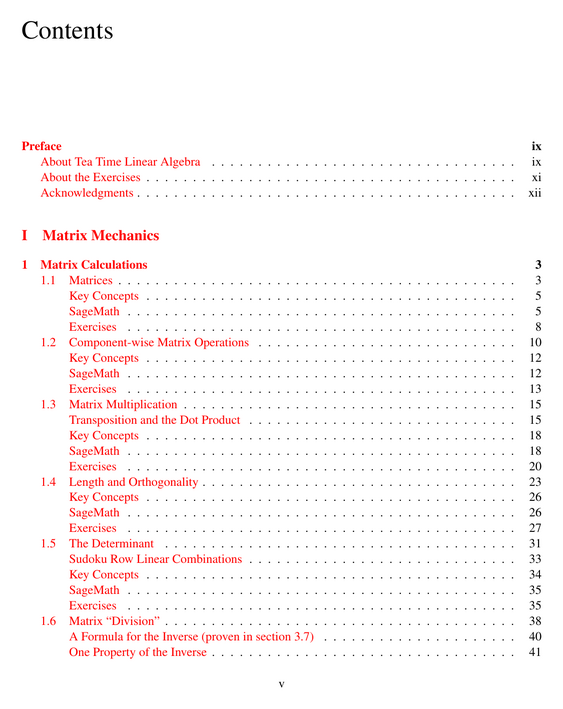
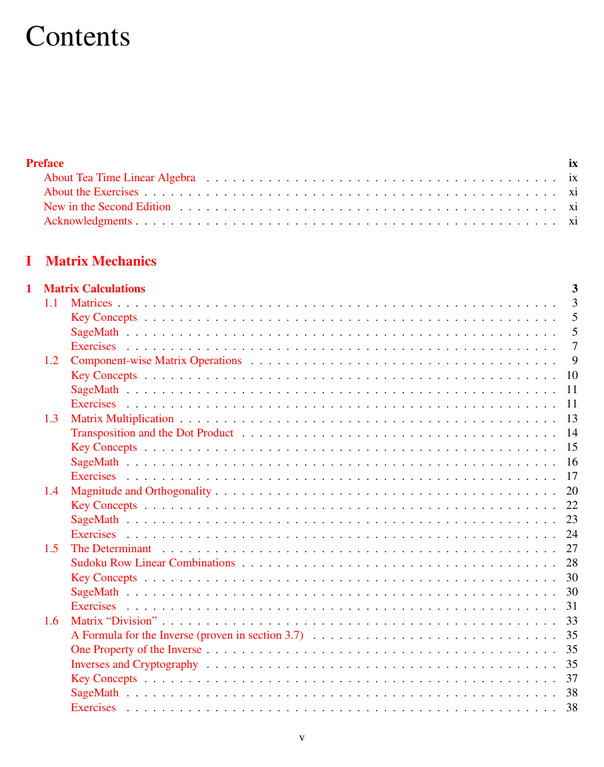
Second Edition accommodation

diff --git a/changelog.html b/changelog.html
@@ -4,11 +4,11 @@
   <head>
     <meta charset='utf-8' />
     <meta http-equiv="X-UA-Compatible" content="chrome=1" />
-    <meta name="description" content="Tea Time Linear Algebra Errata" />
+    <meta name="description" content="Tea Time Linear Algebra Changelog and Revised PDF" />
 
     <link rel="stylesheet" type="text/css" media="screen" href="stylesheets/stylesheet.css">
 
-    <title>Tea Time Linear Algebra Errata</title>
+    <title>Tea Time Linear Algebra Changelog and Revised PDF</title>
   </head>
   
   <script>
@@ -24,16 +24,21 @@
     <div id="header_wrap" class="outer">
         <header class="inner">
           <a id="go_home" href="index.html">Home</a>
-          <a id="download_book" href="https://github.com/lqbrin/tea-time-linear/raw/main/TeaTimeLinearAlgebra-edition01.pdf">Download PDF</a>
-          <h2 id="book_title"><span style="font-size:60%">2021: First Edition</span><br>Tea Time Linear Algebra <span style="font-size:60%">Explorations in Mathematics</span></h2>
+          <a id="download_book" href="https://github.com/lqbrin/tea-time-linear/raw/main/TeaTimeLinearAlgebra-edition02.pdf">Download PDF</a>
+          <h2 id="book_title"><span style="font-size:60%">2022: Second Edition</span><br>Tea Time Linear Algebra <span style="font-size:60%">Explorations in Mathematics</span></h2>
         </header>
     </div>
 
     <!-- MAIN CONTENT -->
     <div id="main_content_wrap" class="outer">
       <section id="main_content" class="inner">
-		<h4>Changelog (last updated 2022 Jun 16)</h4>
-			These changes do not appear <strong>in the print version or the main download</strong> (the pink "Download PDF" link at the top of this page).
+		<h4>Changelog `1^(st)` edition to `2^(nd)` (last updated 2022 Jul 14)</h4>
+			<h4>Introduced in the second edition</h4>
+			<ul>
+				<li>Default typesize decreased from 12pt to 10pt</li>
+				<li>Free, complete course management at <a href="https://www.myopenmath.com/" target="_blank">MyOpenMath</a> including randomly generated versions of most exercises now available. Course shell fully aligned to textbook available from the course browser. Request an instructor account to access.</li>
+			</ul>
+			<h5>Changes <span style="font-size:90%;">(do not appear in the `1^(st)` edition print version or previous version download)</span></h5>
 			<h5>Chapter 1</h5>
 			<ul>
 				<li><strong>P 10:</strong> "matrix" changed to "block"</li>
@@ -119,6 +124,36 @@
 				<li><strong>P 250</strong> corrected definition of orthogonal projection in lise of key concepts</li>
 				<li><strong>P 252</strong> replaced exercise 3h</li>
 				<li><strong>P 253</strong> minor revision to exercise 7</li>
+			</ul>
+			<h5>Chapter 7</h5>
+			<ul>
+				<li><strong>P 257</strong> minor rewording</li>
+				<li><strong>P 258</strong> minor rewording; changed "theorem" to "corollary"</li>
+				<li><strong>P 260</strong> added explanation of linear variation of parameters</li>
+				<li><strong>P 263</strong> clarified crumpet 29 bullet point 1</li>
+				<li><strong>P 264</strong> clarifications to exercise 1</li>
+				<li><strong>P 265-266</strong> swapped method requested in exercises 3 and 4 and fixed solutions and answers</li>
+				<li><strong>P 276</strong> changed "sector" to "industry" in exercise 9 and clarified</li>
+				<li><strong>P 277</strong> changed numbers in exercise 11</li>
+				<li><strong>P 281</strong> removed special treatment of case `m=0`</li>
+				<li><strong>P 285-287</strong> corrected formula for Fourier coefficients</li>
+				<li><strong>P 288</strong> added two parts to exercise 7; added "the first" to exercises 8-10; replaced `V_([0,L])` notation in Answers</li>
+				<li><strong>P 289</strong> replaced `V_([0,L])` notation</li>
+				<li><strong>P 290</strong> simplified explanation of brownie experiment</li>
+				<li><strong>P 292</strong> clarified the role of Newton's law of cooling</li>
+				<li><strong>P 294</strong> vocabulary correction</li>
+				<li><strong>P 295</strong> added the term "long run behavior"</li>
+				<li><strong>P 298</strong> clarified analogy between geometric series and discrete dynamical systems</li>
+				<li><strong>P 299</strong> added some explanation of asymptotic periodicity</li>
+				<li><strong>P 300</strong> added several parts to exercise 1 and modified existing parts</li>
+				<li><strong>P 301</strong> fixed equations in exercises 10 and 11</li>
+				<li><strong>P 302</strong> clarified linearization</li>
+				<li><strong>P 310</strong> changed 50 to 60 in footnote</li>
+				<li><strong>P 312</strong> extended the hint in exercise 12</li>
+			</ul>
+			<h5>Answers and Solutions</h5>
+			<ul>
+				<li><strong>P 315-413</strong> corrected, supplemented, and synchronized many answers and solutions</li>
 			</ul>
 		<h4>PDF with revisions</h4>
 		A PDF with these revisions and numerous bug fixes is available for <a href="https://github.com/lqbrin/tea-time-linear/raw/main/TeaTimeLinearAlgebra.pdf">download here</a>. This version will always be the most up-to-date revision and will change regularly. You might consider this a preview of the next edition. Suggestions welcome at <a href="mailto:brinl1@southernct.edu"><kbd>brinl1@southernct.edu</kbd></a>!

diff --git a/index.html b/index.html
@@ -16,8 +16,8 @@
     <!-- HEADER -->
     <div id="header_wrap" class="outer">
         <header class="inner">
-          <a id="download_book" href="https://github.com/lqbrin/tea-time-linear/raw/main/TeaTimeLinearAlgebra-edition01.pdf">Download PDF</a>
-          <h2 id="book_title"><span style="font-size:60%">2021: First Edition</span><br>Tea Time Linear Algebra <span style="font-size:60%">Explorations in Mathematics</span></h2>
+          <a id="download_book" href="https://github.com/lqbrin/tea-time-linear/raw/main/TeaTimeLinearAlgebra-edition02.pdf">Download PDF</a>
+          <h2 id="book_title"><span style="font-size:60%">2022: Second Edition</span><br>Tea Time Linear Algebra <span style="font-size:60%">Explorations in Mathematics</span></h2>
         </header>
     </div>
 
@@ -28,11 +28,11 @@
 	      <a href="contents.html" class="pagenav">Table of Contents</a>
 	      <a href="ancillaries.html" class="pagenav">Ancillaries</a>
 	      <a href="printCopy.html" class="pagenav">Printed Copy</a>
-	      <a href="errata.html" class="pagenav">Errata / revised PDF</a>
+	      <a href="changelog.html" class="pagenav">Changelog / revised PDF</a>
 	      <a href="more.html" class="pagenav">More Info</a>
 	    </p>
 	    <div style="float:right; width:320px;">
-		  <p style="text-align:right;"><img alt="Title Page" src="images/titlepage-1.png" width=300 height=400 /><br/>
+		  <p style="text-align:right;"><img alt="Title Page" src="images/titlepage-2.png" width=300 height=400 /><br/>
 		  Also by L.Q. Brin: <a href="https://lqbrin.github.io/tea-time-numerical/"><span style="padding: 5px 3px 3px 3px; color: #fff; background-color: #0090ff;">Tea Time Numerical Analysis</span></a></p>
 	    </div>
         <h4>Greetings! And thanks for visiting.</h4>
@@ -42,13 +42,14 @@
         <p><b>See reviews</b>:</p>
         -->
         <p style="text-align:right;"><em>[The] writing is excellent ... sharp, to the point, and witty.&nbsp;&nbsp;&nbsp;&nbsp;</em><br/>- Dick Pelosi&nbsp;&nbsp;&nbsp;&nbsp;</p>
-        <p>Take a ride through the landscape of linear algebra from basic mechanics through vector spaces.</p>
+        <p>Take a ride through the landscape of linear algebra from basic mechanics through inner product spaces.</p>
         <ul>
-	      <li>432 pages</li>
+	      <li>386 pages</li>
 	      <li>Over 1000 exercises with over 200 detailed solutions and hundreds more answers</li>
 	      <li>Over 250 illustrations</li>
 	      <li>Nearly 150 live SageMathCell links</li>
 	      <li>Open source</li>
+	      <li><span style="font-weight:bold;">Now with online homework and course management at <a href="https://www.myopenmath.com/" target="_blank">MyOpenMath!</a></span></li>
         </ul>
 		<p>Presented in a conversational style with plenty of motivation, illustrations, applications, and theory, this text should be a comfortable read for most beginning mathematicians. Readers and instructors alike will appreciate the numerous detailed exercise solutions accompanying each section.</p>
 		<p>Examine the distribution of bicycles in the Capital Bikeshare system, model an un-preheated oven baking brownies, reproduce sounds via Fourier series, explore rep-tiles like the one decorating this cover, and more. Read proofs of the rank and nullity theorem, the determinant expansion formula, existence and uniqueness of solutions of linear systems and others.</p>

diff --git a/printCopy.html b/printCopy.html
@@ -17,8 +17,8 @@
     <div id="header_wrap" class="outer">
         <header class="inner">
           <a id="go_home" href="index.html">Home</a>
-          <a id="download_book" href="https://github.com/lqbrin/tea-time-linear/raw/main/TeaTimeLinearAlgebra-edition01.pdf">Download PDF</a>
-          <h2 id="book_title"><span style="font-size:60%">2021: First Edition</span><br>Tea Time Linear Algebra <span style="font-size:60%">Explorations in Mathematics</span></h2>
+          <a id="download_book" href="https://github.com/lqbrin/tea-time-linear/raw/main/TeaTimeLinearAlgebra-edition02.pdf">Download PDF</a>
+          <h2 id="book_title"><span style="font-size:60%">2022: Second Edition</span><br>Tea Time Linear Algebra <span style="font-size:60%">Explorations in Mathematics</span></h2>
         </header>
     </div>
 
@@ -26,7 +26,8 @@
     <div id="main_content_wrap" class="outer">
       <section id="main_content" class="inner">
 		<h4>Printed copies</h4>
-		<p>Color <a href="https://www.lulu.com/en/us/shop/leon-brin/tea-time-linear-algebra/paperback/product-vnk48e.html" target="__blank">copy from Lulu</a> ($24.60 + tax/shipping)</p>
+		<p>Second Edition <a href="https://www.lulu.com/shop/leon-brin/tea-time-linear-algebra/paperback/product-r9r6jj.html" target="__blank">copy from Lulu</a> ($22.44 + tax/shipping)</p>
+		<p>First Edition <a href="https://www.lulu.com/shop/leon-brin/tea-time-linear-algebra/paperback/product-vnk48e.html" target="__blank">copy from Lulu</a> ($24.60 + tax/shipping)</p>
 		<p>I make a modest $2 profit from each sale through Lulu, more to help keep track of number of volumes sold than to make money, but you may download the PDF and print it any way you like.</p>
       </section>
     </div>

diff --git a/more.html b/more.html
@@ -17,8 +17,8 @@
     <div id="header_wrap" class="outer">
         <header class="inner">
           <a id="go_home" href="index.html">Home</a>
-          <a id="download_book" href="https://github.com/lqbrin/tea-time-linear/raw/main/TeaTimeLinearAlgebra-edition01.pdf">Download PDF</a>
-          <h2 id="book_title"><span style="font-size:60%">2021: First Edition</span><br>Tea Time Linear Algebra <span style="font-size:60%">Explorations in Mathematics</span></h2>
+          <a id="download_book" href="https://github.com/lqbrin/tea-time-linear/raw/main/TeaTimeLinearAlgebra-edition02.pdf">Download PDF</a>
+          <h2 id="book_title"><span style="font-size:60%">2022: Second Edition</span><br>Tea Time Linear Algebra <span style="font-size:60%">Explorations in Mathematics</span></h2>
         </header>
     </div>
 
@@ -27,10 +27,16 @@
       <section id="main_content" class="inner">
 		<h4>Other Topics</h4>
 		<ol type="A">
+			<li><a href="#previousVersions">Previous Editions</a></li>
 			<li><a href="#accessingSage">Accessing SageMath</a></li>
 			<li><a href="#bookSource">Book Source</a></li>
 			<li><a href="#contact">Contact the Author</a></li>
 		</ol>
+		<a name="previousVersions"></a>
+		<h4>Previous Edition Download</h4>
+		<ul>
+			<li><a href="https://github.com/lqbrin/tea-time-linear/raw/main/TeaTimeLinearAlgebra-edition01.pdf">Download first edition PDF</a></li>
+		</ul>
 		<a name="accessingSage"></a>
 		<h4>Accessing SageMath</h4>
 		<h6>Online</h6>

diff --git a/ancillaries.html b/ancillaries.html
@@ -17,8 +17,8 @@
     <div id="header_wrap" class="outer">
         <header class="inner">
           <a id="go_home" href="index.html">Home</a>
-          <a id="download_book" href="https://github.com/lqbrin/tea-time-linear/raw/main/TeaTimeLinearAlgebra-edition01.pdf">Download PDF</a>
-          <h2 id="book_title"><span style="font-size:60%">2021: First Edition</span><br>Tea Time Linear Algebra <span style="font-size:60%">Explorations in Mathematics</span></h2>
+          <a id="download_book" href="https://github.com/lqbrin/tea-time-linear/raw/main/TeaTimeLinearAlgebra-edition02.pdf">Download PDF</a>
+          <h2 id="book_title"><span style="font-size:60%">2022: Second Edition</span><br>Tea Time Linear Algebra <span style="font-size:60%">Explorations in Mathematics</span></h2>
         </header>
     </div>
 
@@ -108,9 +108,13 @@
 				</ul>
 			</li>
 		</ul>
-		<h6 id="section7.1">7.4 Discrete Dynamical Systems</h6>
+		<h6 id="section7.4">7.4 Discrete Dynamical Systems</h6>
 		<ul>
 			<li><a href="other/brownies.ods" target="_blank">Brownie Baking Data Spreadsheet</a></li>
+		</ul>
+		<h6 id="section7.5">7.5 Rep-tiles</h6>
+		<ul>
+			<li><a href="https://lqbrin.github.io/tea-time-linear/rep-tile-designer.html" target="_blank">Rep-tile Designer</a></li>
 		</ul>
       </section>
     </div>

diff --git a/contents.html b/contents.html
@@ -17,8 +17,8 @@
     <div id="header_wrap" class="outer">
         <header class="inner">
           <a id="go_home" href="index.html">Home</a>
-          <a id="download_book" href="https://github.com/lqbrin/tea-time-linear/raw/main/TeaTimeLinearAlgebra-edition01.pdf">Download PDF</a>
-          <h2 id="book_title"><span style="font-size:60%">2021: First Edition</span><br>Tea Time Linear Algebra <span style="font-size:60%">Explorations in Mathematics</span></h2>
+          <a id="download_book" href="https://github.com/lqbrin/tea-time-linear/raw/main/TeaTimeLinearAlgebra-edition02.pdf">Download PDF</a>
+          <h2 id="book_title"><span style="font-size:60%">2022: Second Edition</span><br>Tea Time Linear Algebra <span style="font-size:60%">Explorations in Mathematics</span></h2>
         </header>
     </div>
 
